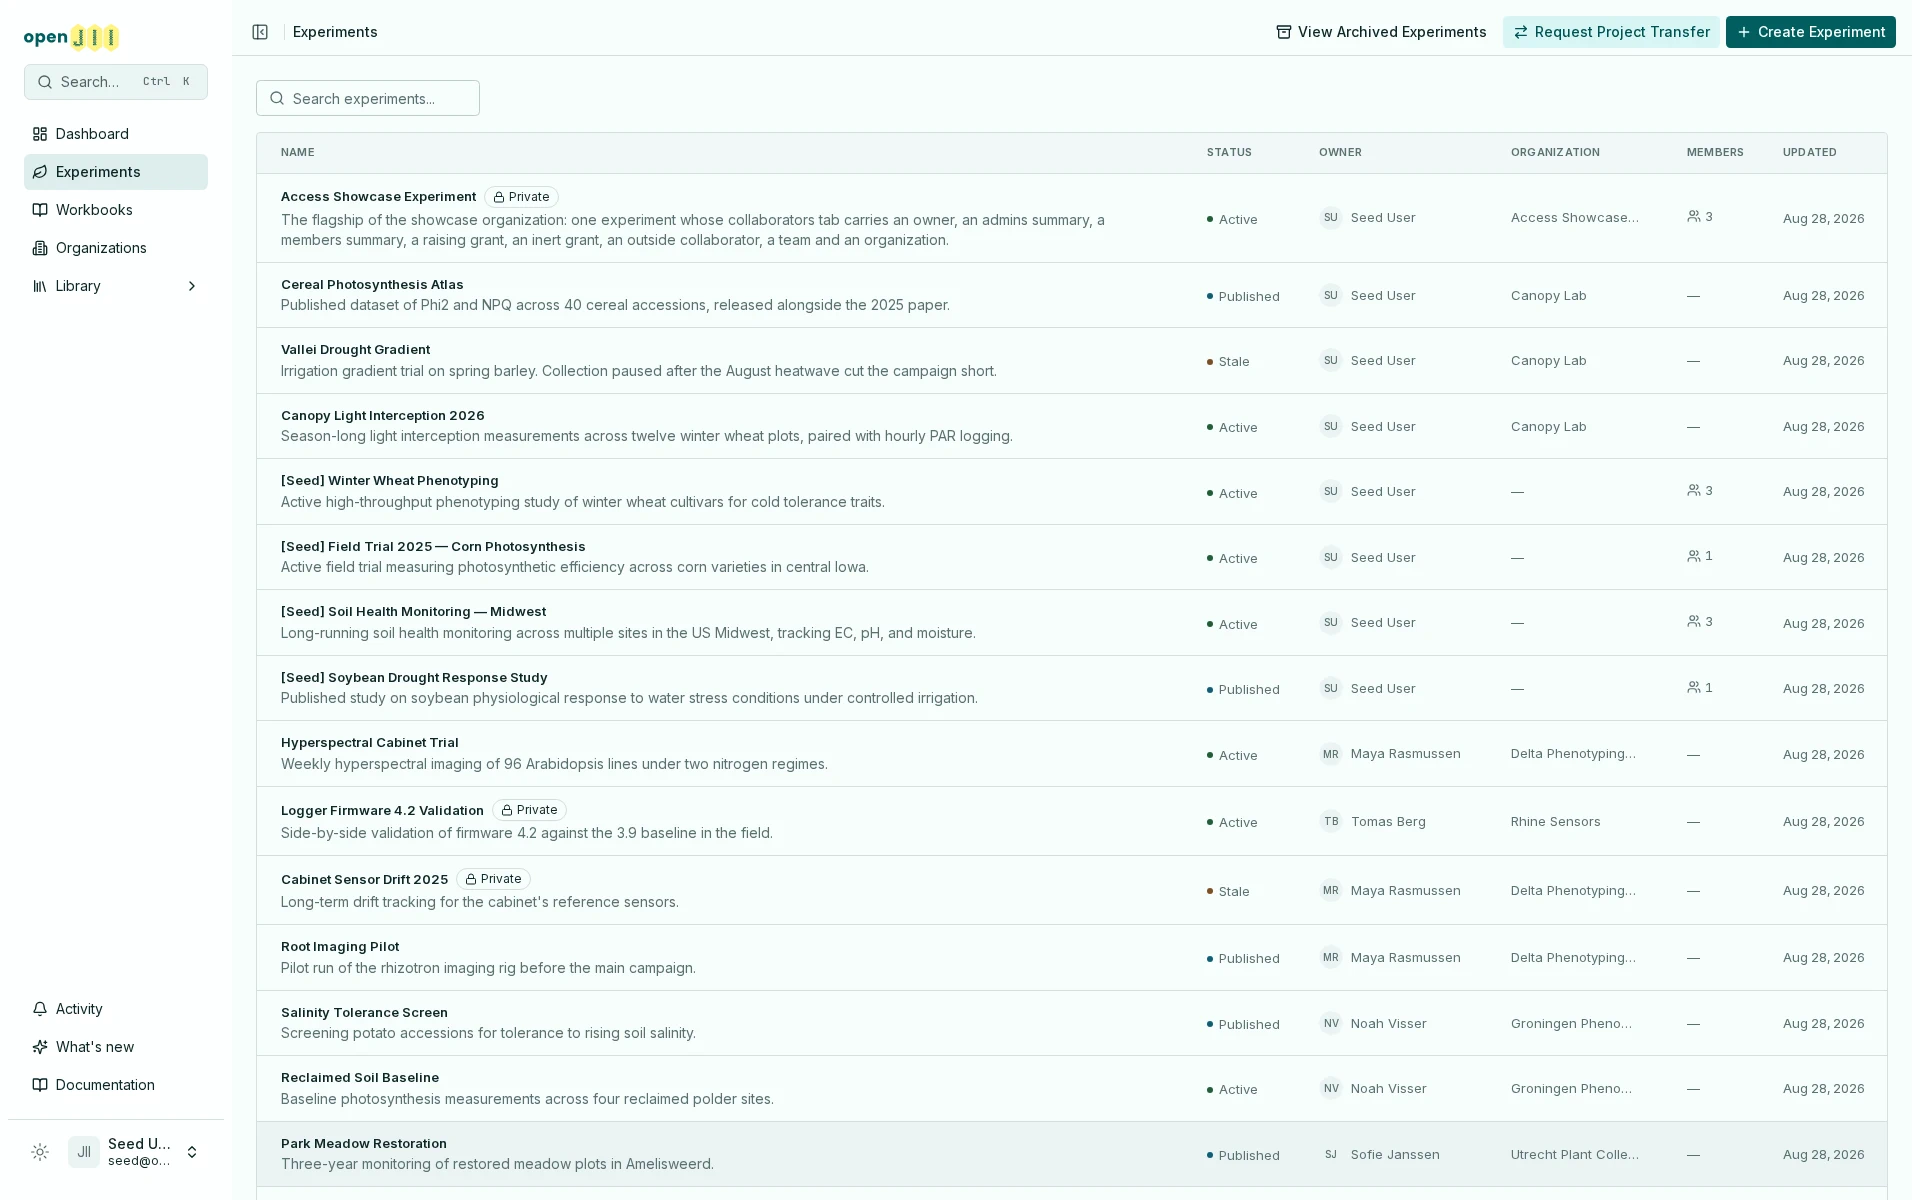
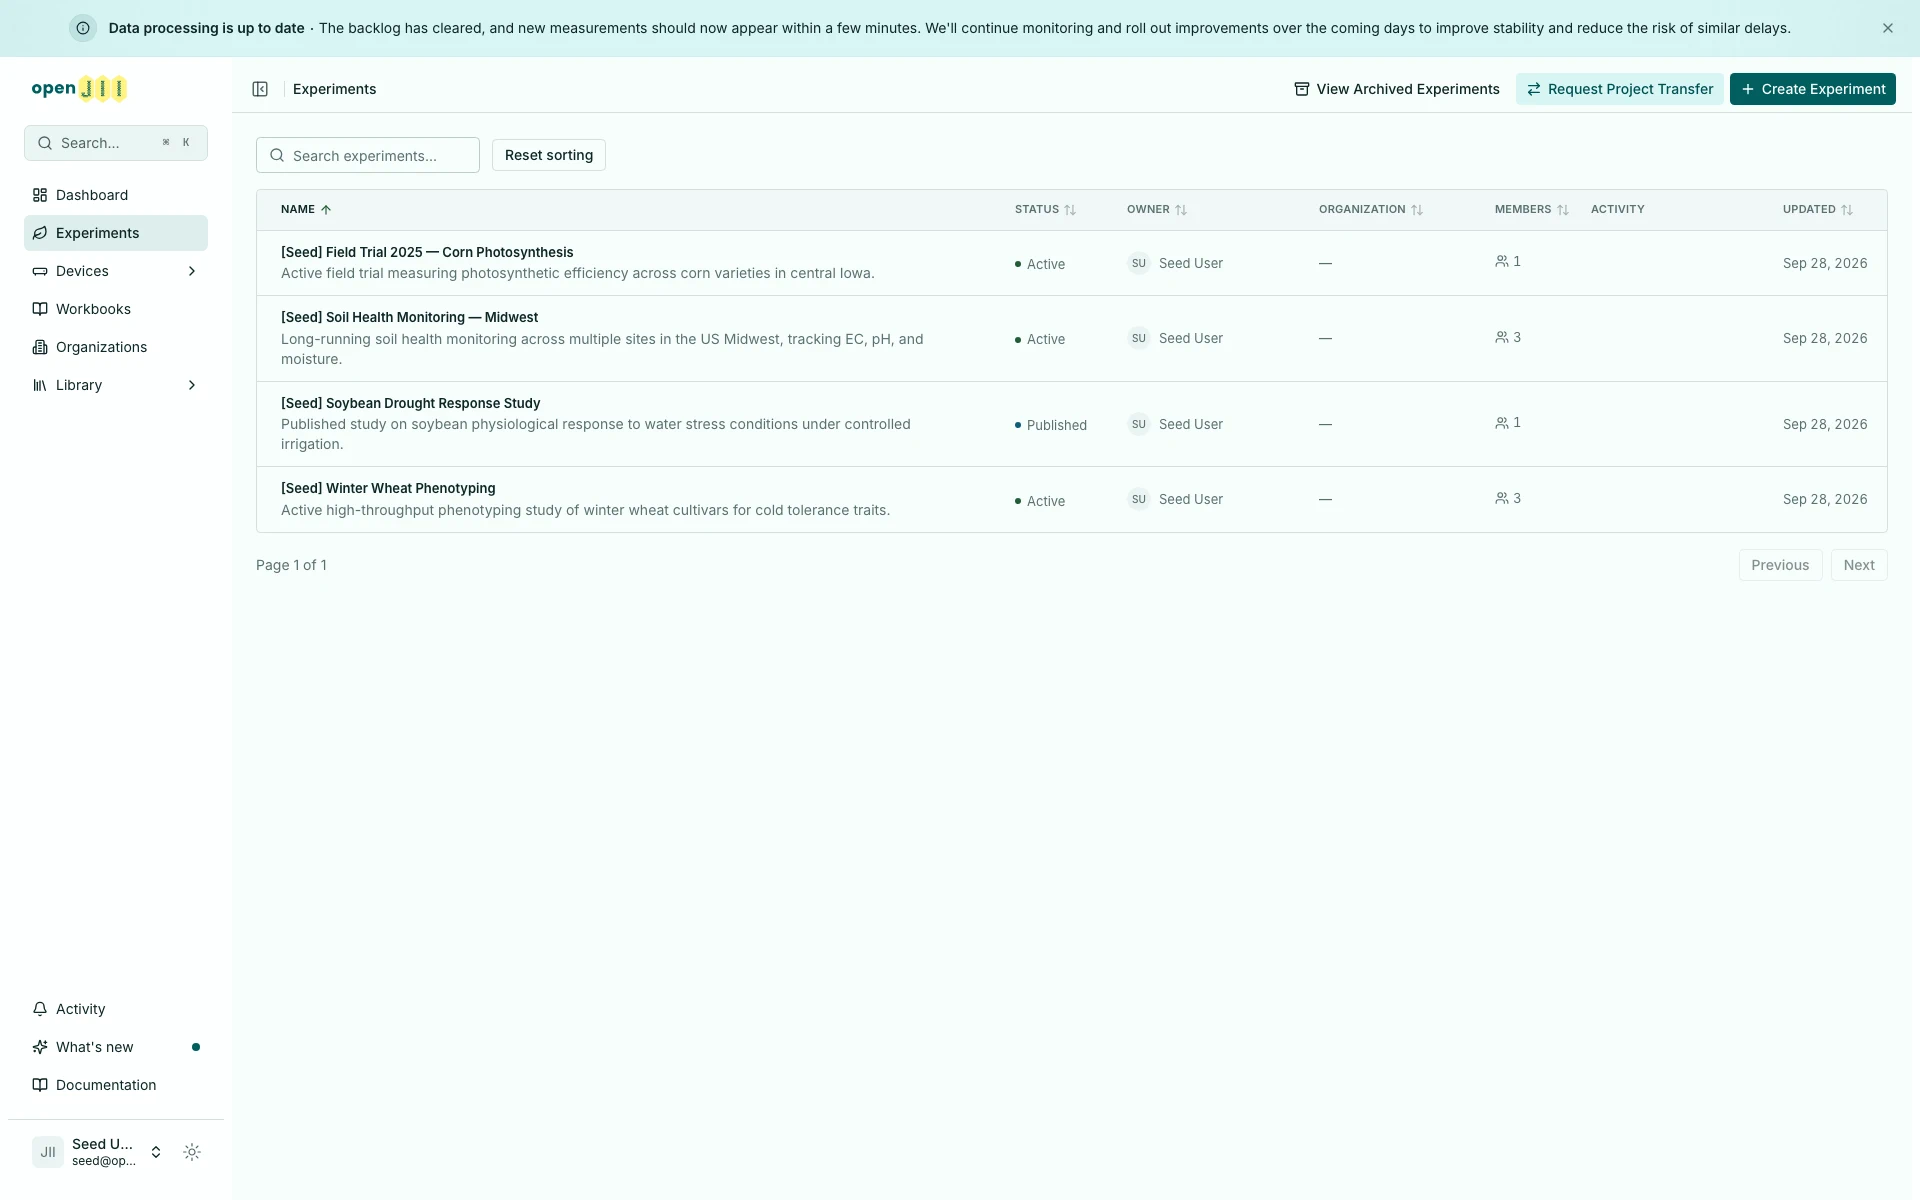
docs: update sortable list screenshots

diff --git a/apps/e2e/scripts/capture-docs-media.ts b/apps/e2e/scripts/capture-docs-media.ts
@@ -139,6 +139,11 @@ async function preparePage(page: Page, theme: Options["theme"], freeze: boolean)
   await page.addStyleTag({ content: DEV_CHROME_CSS });
   if (freeze) await page.addStyleTag({ content: STILLNESS_CSS });
   await dismissCookieBanner(page);
+  const passkeyPromptDismissal = page.getByRole("button", { name: "Not now" });
+  if (await passkeyPromptDismissal.isVisible().catch(() => false)) {
+    await passkeyPromptDismissal.click();
+    await passkeyPromptDismissal.waitFor({ state: "hidden" });
+  }
   await page.emulateMedia({ colorScheme: theme, reducedMotion: "reduce" });
   await page.waitForTimeout(400);
 }

diff --git a/apps/e2e/docs-media/shots.ts b/apps/e2e/docs-media/shots.ts
@@ -35,7 +35,7 @@ export interface Shot {
 const settle = (page: Page, ms = 900) => page.waitForTimeout(ms);
 
 async function sortNameAscending(page: Page): Promise<void> {
-  await page.getByRole("button", { name: /^Name: unsorted$/ }).click();
+  await page.locator('button[aria-label="Name: unsorted"]').click();
   await page.locator('th[aria-sort="ascending"]').first().waitFor();
 }
 
